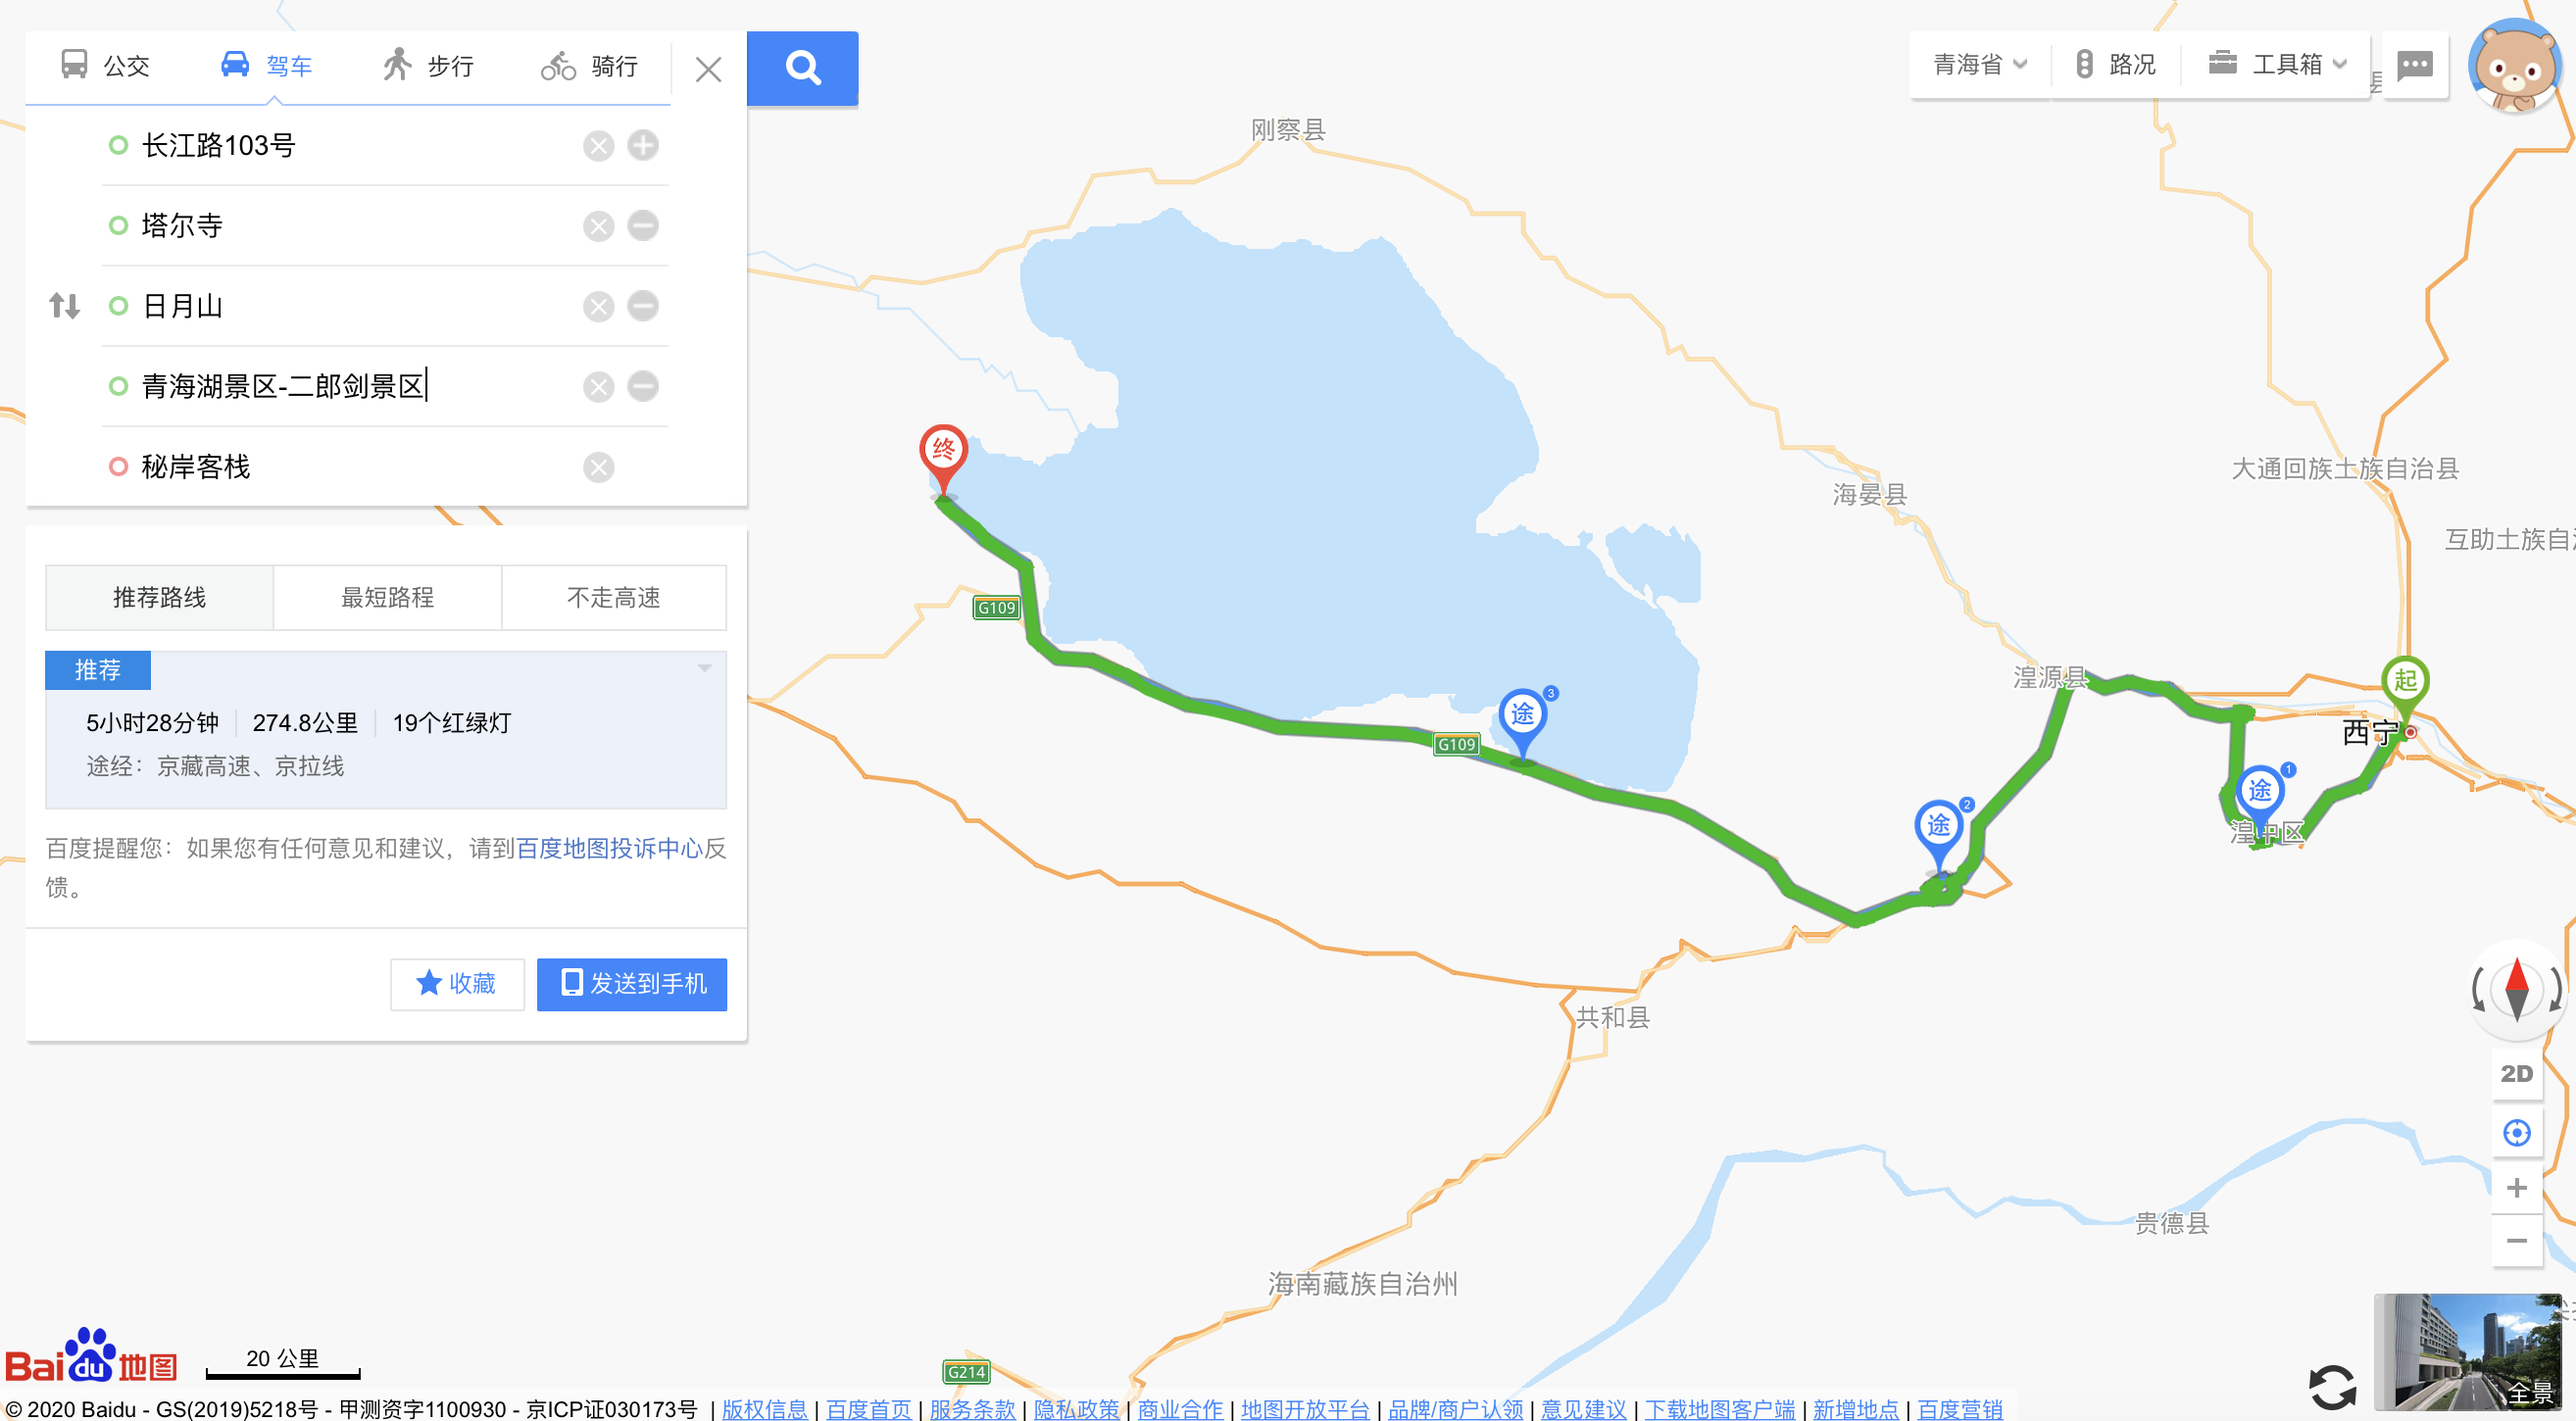
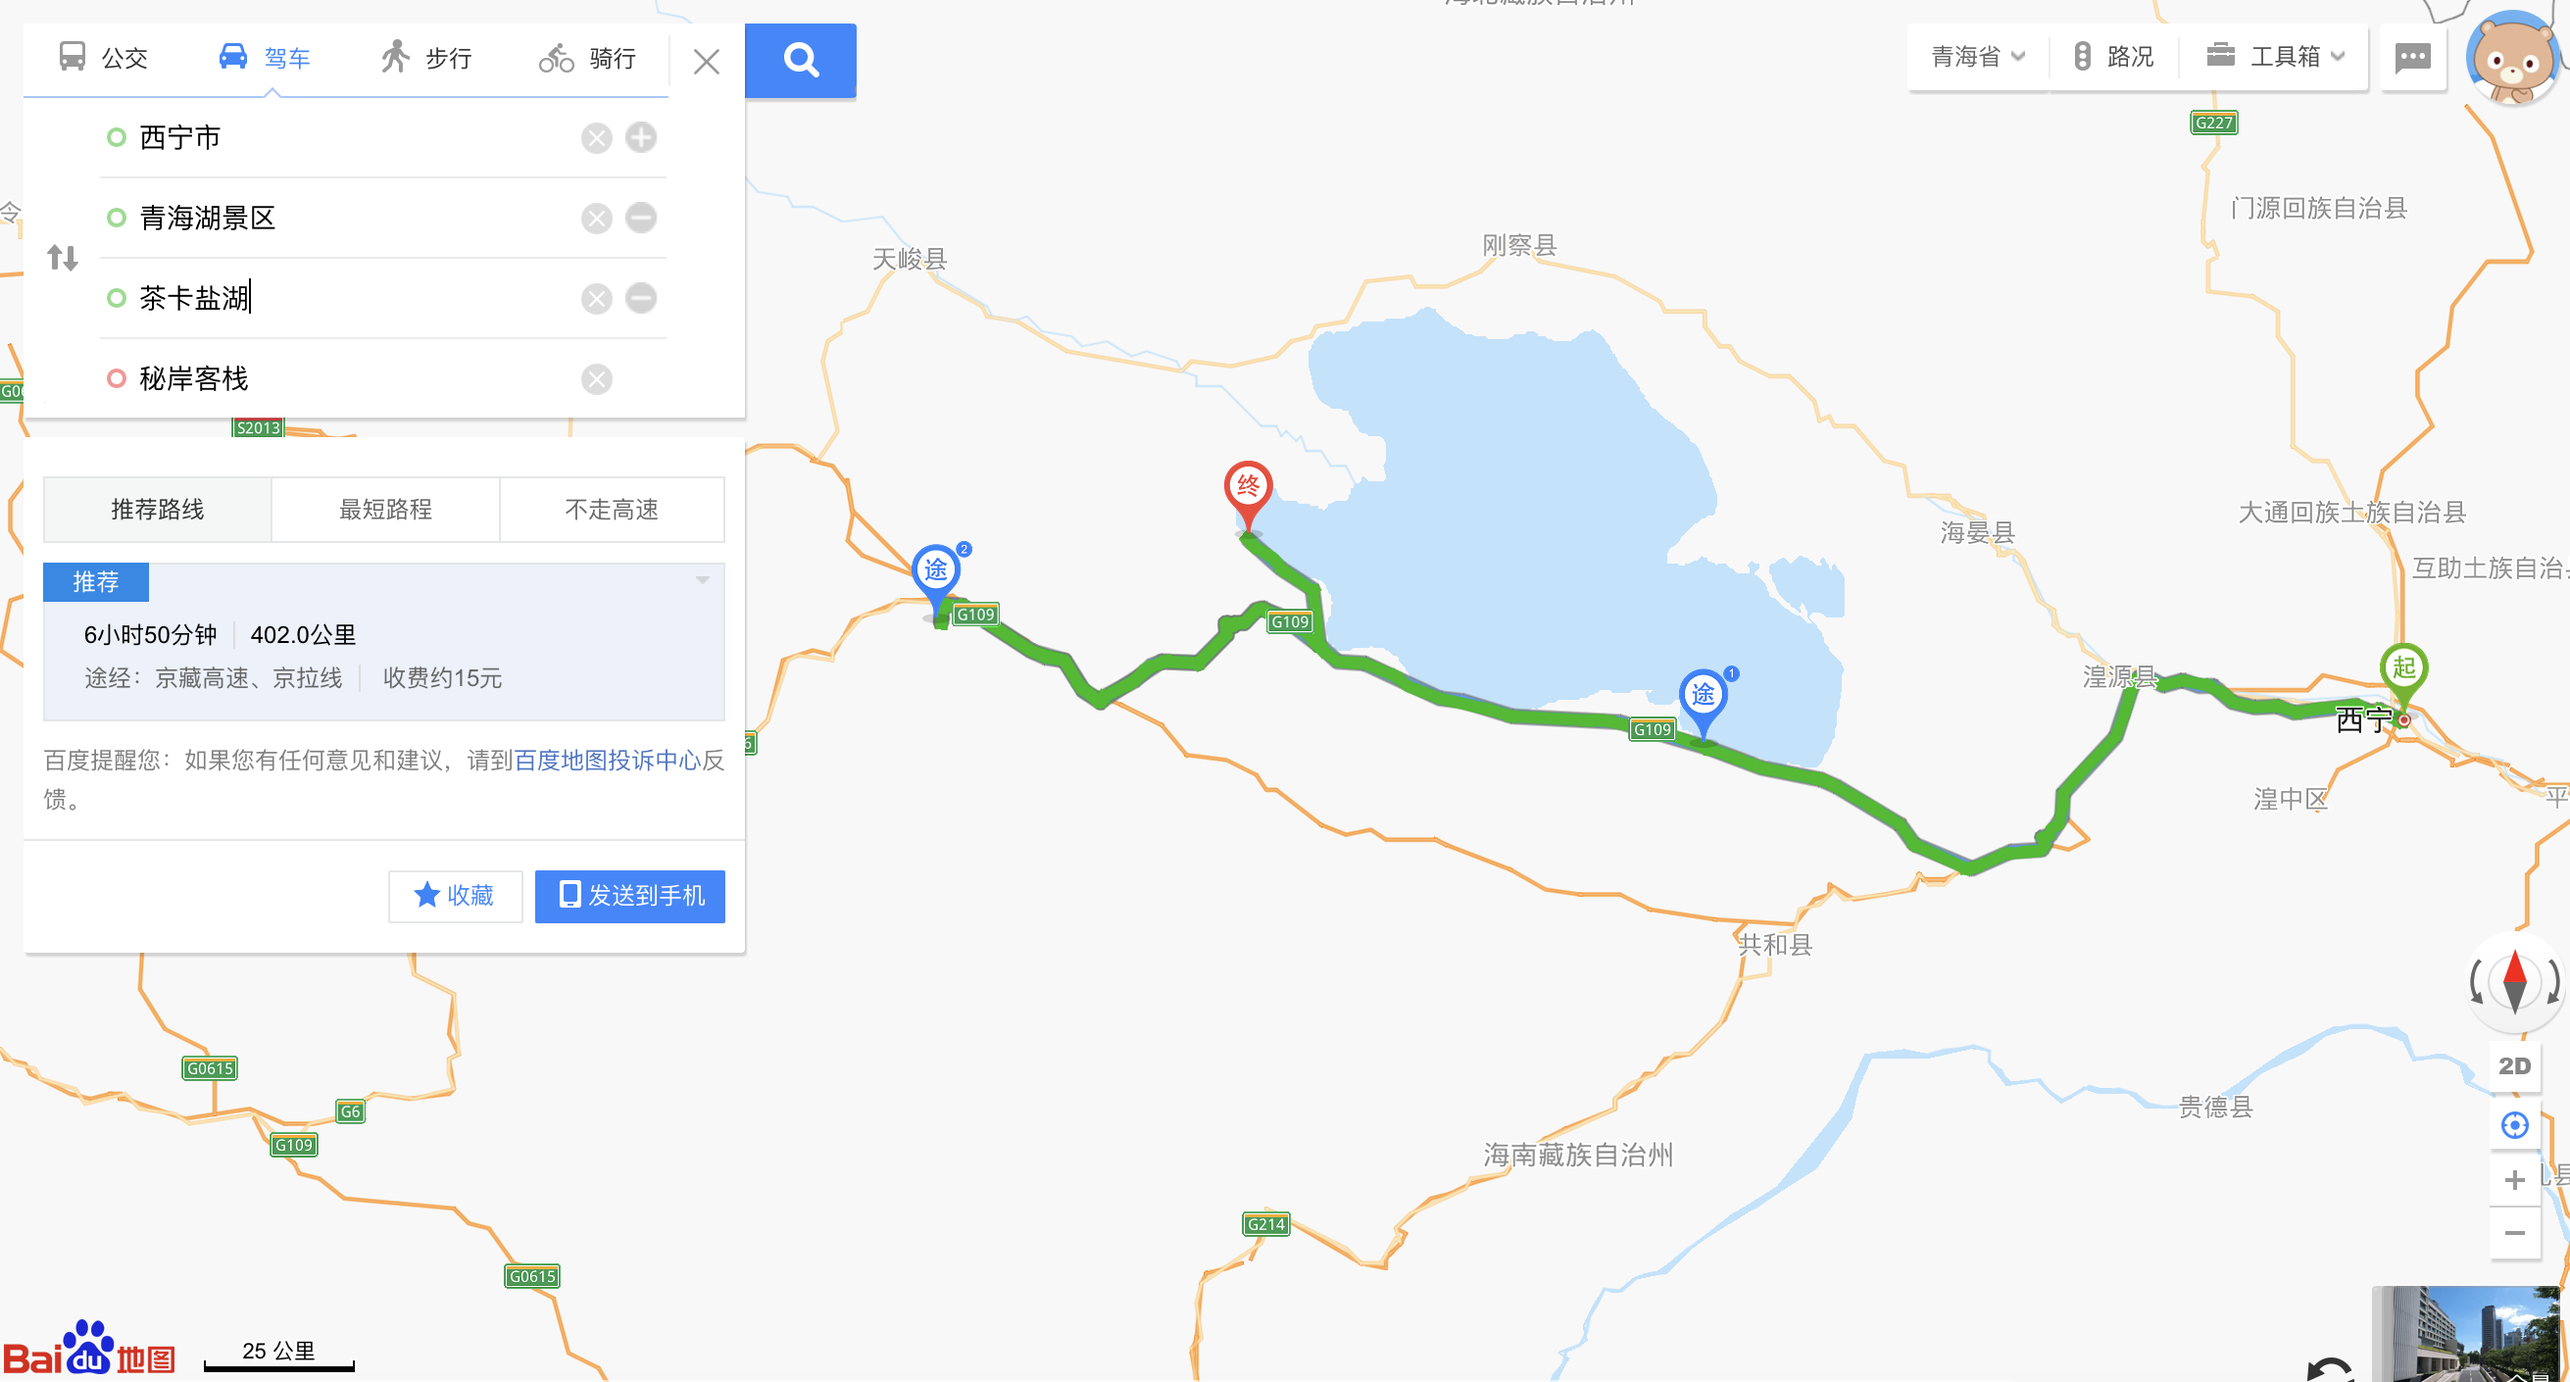
update

diff --git a/README.md b/README.md
@@ -1,13 +1,13 @@
 # 西北旅游
 
-### 详细线路
+### 整体线路
 
 时间|住宿地点|线路|路程|酒店|备注
 -|-|-|-|-|-
-19|西宁|取车,购买旅途用品(水,零食)|-|西宁君悦假日酒店|超市、天猫半日达购买旅途用品
-20|青海湖|西宁->塔尔寺->日月山->青海湖|5小时|秘岸客栈|西宁早餐,午餐塔尔寺
-21|大柴旦|酒店看日出->茶卡盐湖->德令哈外星人遗址景区->翡翠湖->大柴旦|6小时|北纬37度星空营地|-
-22|敦煌|大柴旦->最美国道315->水上雅丹->西台吉乃尔湖(水上公路)->地上雅丹南八仙->当金山->博罗转井镇->阿克塞->敦煌|9小时|沙漠露营地|-
+19|西宁|取车->塔尔寺->西宁,购买旅途用品(水,零食)|-|西宁君悦假日酒店|超市、天猫半日达购买旅途用品
+20|青海湖|西宁->日月山->青海湖->茶卡盐湖->秘岸客栈|6小时50分钟|秘岸客栈|西宁早餐,午餐塔尔寺
+21|大柴旦|秘岸客栈->德令哈外星人遗址景区->水上雅丹->西台吉乃尔湖(水上公路)->地上雅丹南八仙->大柴旦|11小时15分钟|北纬37度星空营地|-
+22|敦煌|大柴旦->翡翠湖->当金山->博罗转井镇->阿克塞->敦煌|5小时16分钟|沙漠露营地|-
 23|敦煌|莫高窟->鸣沙山月牙泉->沙洲夜市|全天敦煌|IU酒店|-
 24|张掖|敦煌->瓜州->嘉峪关->七彩丹霞->张掖|7小时|张掖千玺丝路国际酒店|-
 25||张掖->扁都口->门源景观台->达坂山->祁连大草原->黑泉水库->西宁|9小时|-|-
@@ -18,15 +18,15 @@
 
 日期|景点|票价|时间|备注|状态
 -|-|-|-|-|-
-20|塔尔寺|70元|7:30--17:30(2小时左右)|不穿裙子，墨镜，帽子|已购票(飞猪)
+19|塔尔寺|70元|7:30--17:30(2小时左右)|不穿裙子，墨镜，帽子|-
 20|日月山|途经|-|-|-
 20|青海湖|二郎剑景区门票120元||可以不进入，继续沿途一公里|-
-21|黑马河日出|藏族人收费，5元|6:00-6:30左右|-|-
-21|茶卡盐湖|59元|建议游玩2小时|-|已购票
-22|最美国道315|途经|-|超美|-
-22|水上雅丹|120元||尚未开发完全|-
-22|西台吉乃尔湖|||水上公路|-
-22|雅丹地貌南八仙|途经|-|-|-
+20|茶卡盐湖|59元|建议游玩2小时|-|已购票
+21|最美国道315|途经|-|超美|-
+21|水上雅丹|120元||尚未开发完全|-
+21|西台吉乃尔湖|||水上公路|-
+21|雅丹地貌南八仙|途经|-|-|-
+22|翡翠湖||-|-|-
 22|当金山|||路过,盘山公路|-
 22|博罗转井镇|||九层妖塔拍摄|-
 23|莫高窟|260元|9:00(预计3.5小时)|9:30(提前30分钟到达莫高窟集合中心)|已购票(小程序)
@@ -157,6 +157,10 @@ IU酒店|美团|538|23
 西宁|3小时30分钟|188.1公里
 
 ### 线路图片
+
+19:
+
+![line](img/day_19.png)
 
 20:
 
